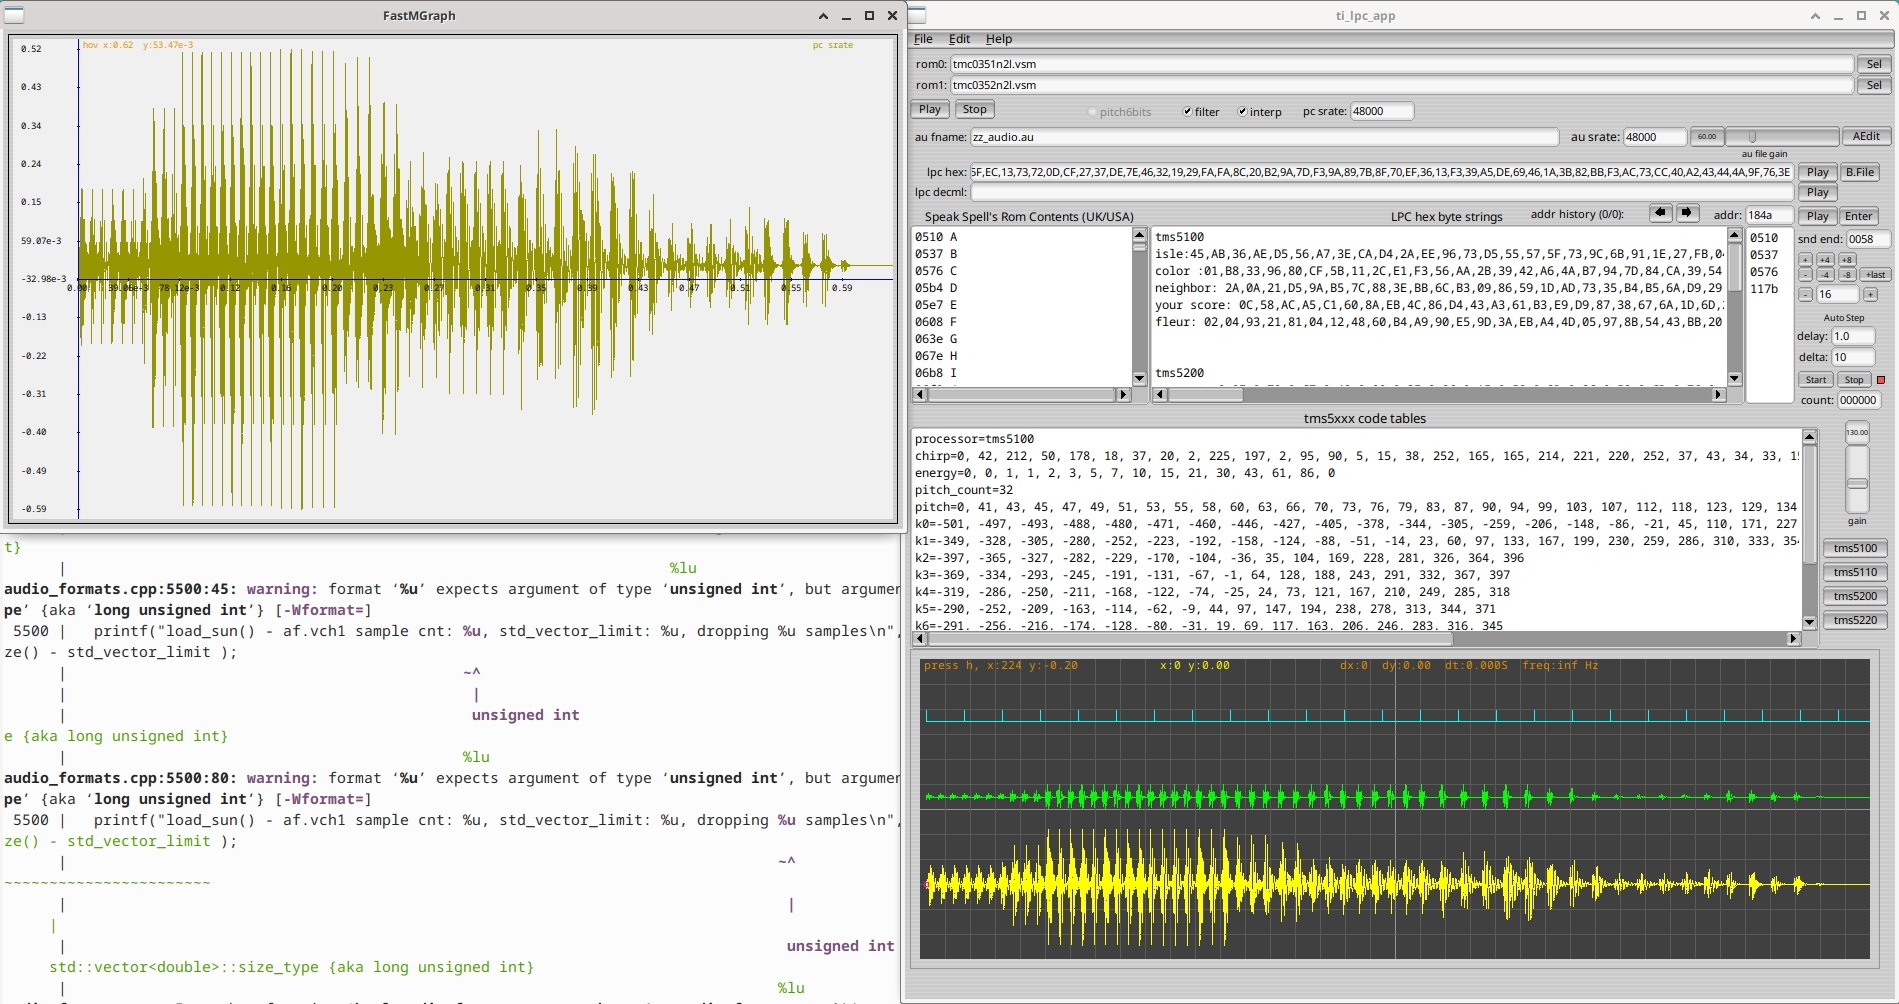
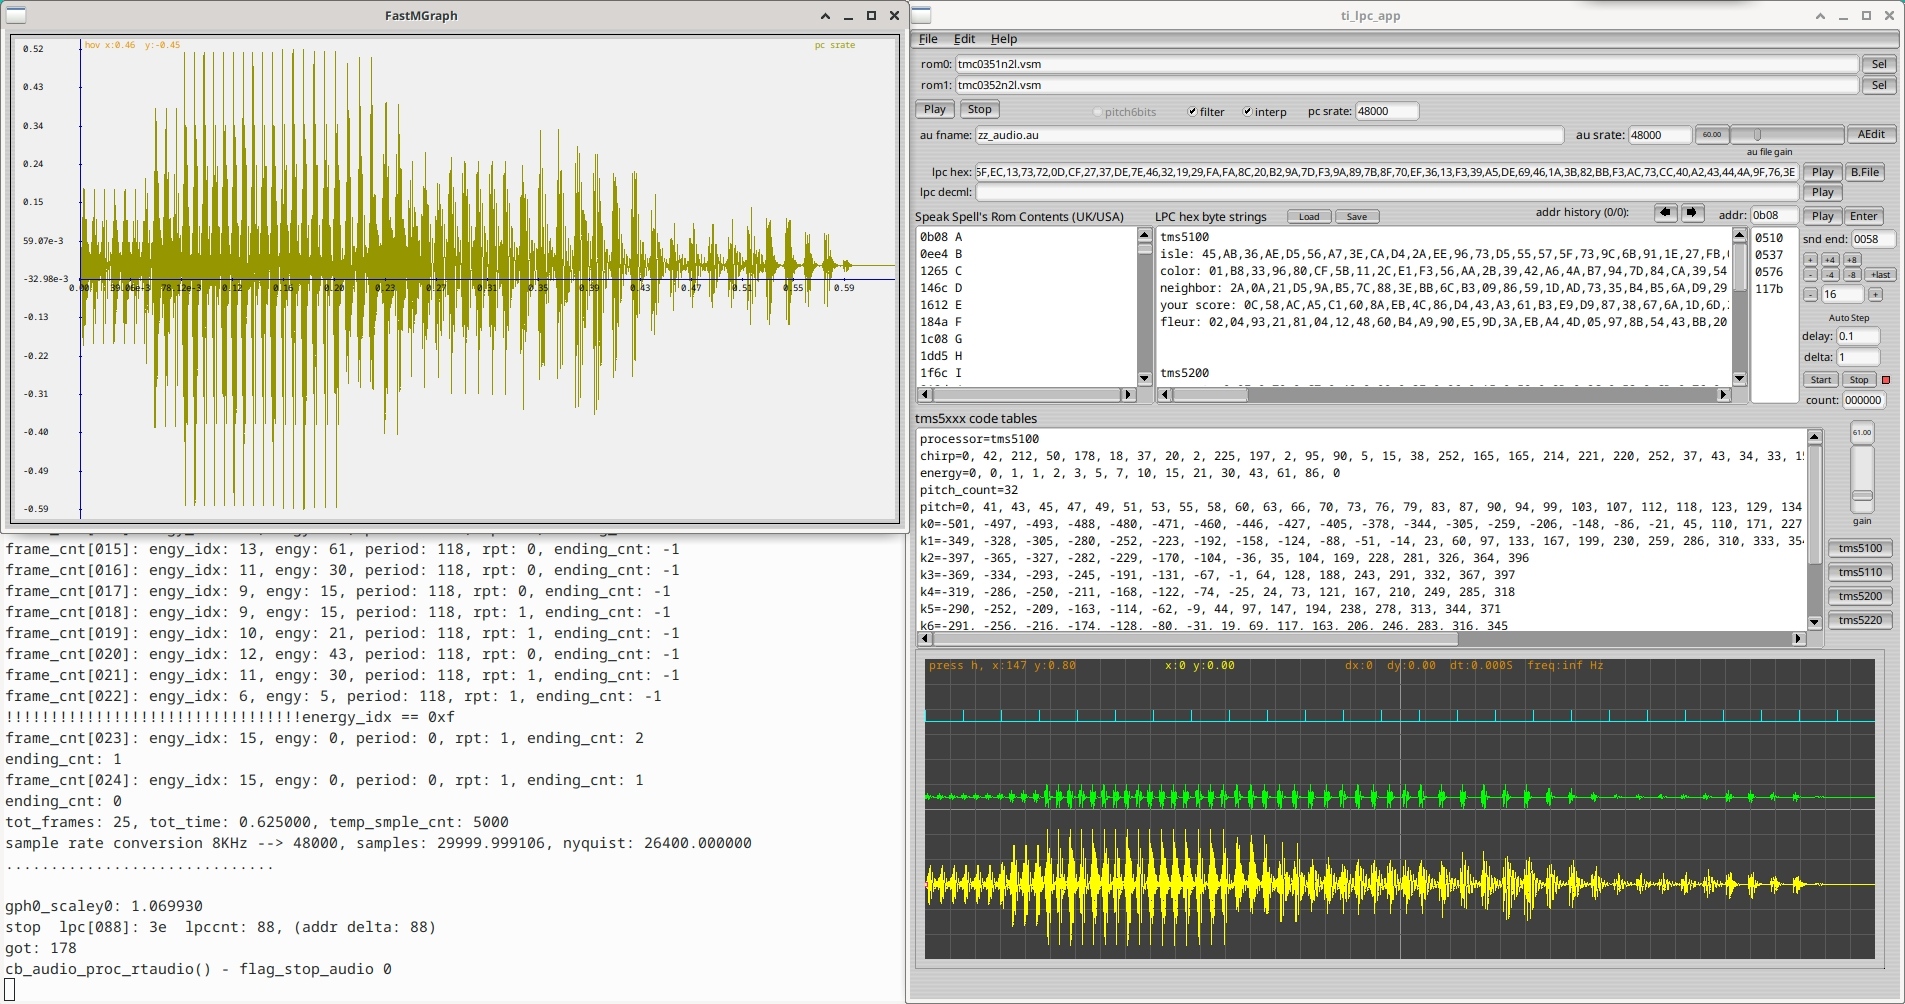
Add files via upload

diff --git a/ti_lpc.cpp b/ti_lpc.cpp
@@ -107,6 +107,7 @@ string slast_filename;
 string slast_binary_file;
 string slast_rom0_filename;
 string slast_rom1_filename;
+string slast_lpc_hex_byte_text_fname;
 
 extern unsigned char phrom_rom[16][16384];
 int stop_lpc_addr = 0;
@@ -1407,6 +1408,8 @@ fi_romfname->value( slast_rom0_filename.c_str() );
 p.GetPrivateProfileStr( "Settings", "last_rom1_filename", "tmc0352n2l.vsm", &slast_rom1_filename );
 fi_romfname1->value( slast_rom1_filename.c_str() );
 
+p.GetPrivateProfileStr( "Settings", "slast_lpc_hex_byte_text_fname", "zz_lpc_hex_byte_string.txt", &slast_lpc_hex_byte_text_fname );
+
 s1 = fi_au_fname->value();
 p.GetPrivateProfileStr( "Settings", "au_fname", "zz_audio.au", &s1 );
 fi_au_fname->value( s1.c_str() );
@@ -1482,6 +1485,7 @@ fi_addr_dec_inc_val->value( s1.c_str() );
 
 
 
+
 if(pref_wnd!=0) pref_wnd->Load(p);
 if(font_pref_wnd!=0) font_pref_wnd->Load(p);
 
@@ -1527,6 +1531,7 @@ p.WritePrivateProfileStr("Settings","last_rom0_filename", slast_rom0_filename );
 slast_rom1_filename = fi_romfname1->value();
 p.WritePrivateProfileStr("Settings","last_rom1_filename", slast_rom1_filename );
 
+p.WritePrivateProfileStr("Settings","slast_lpc_hex_byte_text_fname", slast_lpc_hex_byte_text_fname );
 
 
 s1 = fi_au_fname->value();
@@ -2675,6 +2680,57 @@ printf( "cb_bt_addr_hist_prev_next() - vaddr_hist.size() %d, addr %04x\n",  vadd
 
 
 
+
+
+
+
+
+
+void cb_bt_hex_byte_text_file( Fl_Widget *w, void *v )
+{
+string s1, s2;
+mystr m1;
+
+int which = (intptr_t)v;
+
+printf( "cb_bt_hex_byte_text_file() - %d\n",  which );
+
+
+if( which == 0 )
+	{
+	m1 = tb_lpcdata->text();
+	if( my_file_chooser( s2, "Load text lpc hex string file ?", "*", slast_lpc_hex_byte_text_fname.c_str(), 0, font_num, font_size ) )
+		{
+		if( !m1.readfile( s2, 100000 ) )
+			{
+			strpf( s1, "Failed to load lpc hex string file from text file: '%s'\n", slast_lpc_hex_byte_text_fname.c_str() );
+			fl_alert( s1.c_str(), 0 );
+			}
+		else{
+			slast_lpc_hex_byte_text_fname = s2;
+			tb_lpcdata->text( m1.szptr() );
+			}
+		}
+	}
+
+
+if( which == 1 )
+	{
+	m1 = tb_lpcdata->text();
+	if( my_file_chooser( s2, "Save text lpc hex string file ?", "*", slast_lpc_hex_byte_text_fname.c_str(), Fl_File_Chooser::CREATE, font_num, font_size ) )
+		{
+		if( !m1.writefile( s2 ) )
+			{
+			strpf( s1, "Failed to save lpc hex string file from text file: '%s'\n", slast_lpc_hex_byte_text_fname.c_str() );
+			fl_alert( s1.c_str(), 0 );
+			}
+		else{
+			slast_lpc_hex_byte_text_fname = s2;
+			}
+
+		}
+	}
+}
 
 
 

diff --git a/fluid.h b/fluid.h
@@ -53,6 +53,7 @@ extern void cb_bt_addr_dec_inc_val(Fl_Button*, void*);
 extern Fl_Input *fi_addr_dec_inc_val;
 extern void cb_bt_addr_hist_prev_next(Fl_Button*, void*);
 extern Fl_Box *bx_addr_hist_label;
+extern void cb_bt_hex_byte_text_file(Fl_Button*, void*);
 Fl_Double_Window* main_window();
 void cb_bt_romfile_sel(Fl_Widget*, void*);
 void cb_bt_romfile1_sel(Fl_Widget*, void*);
